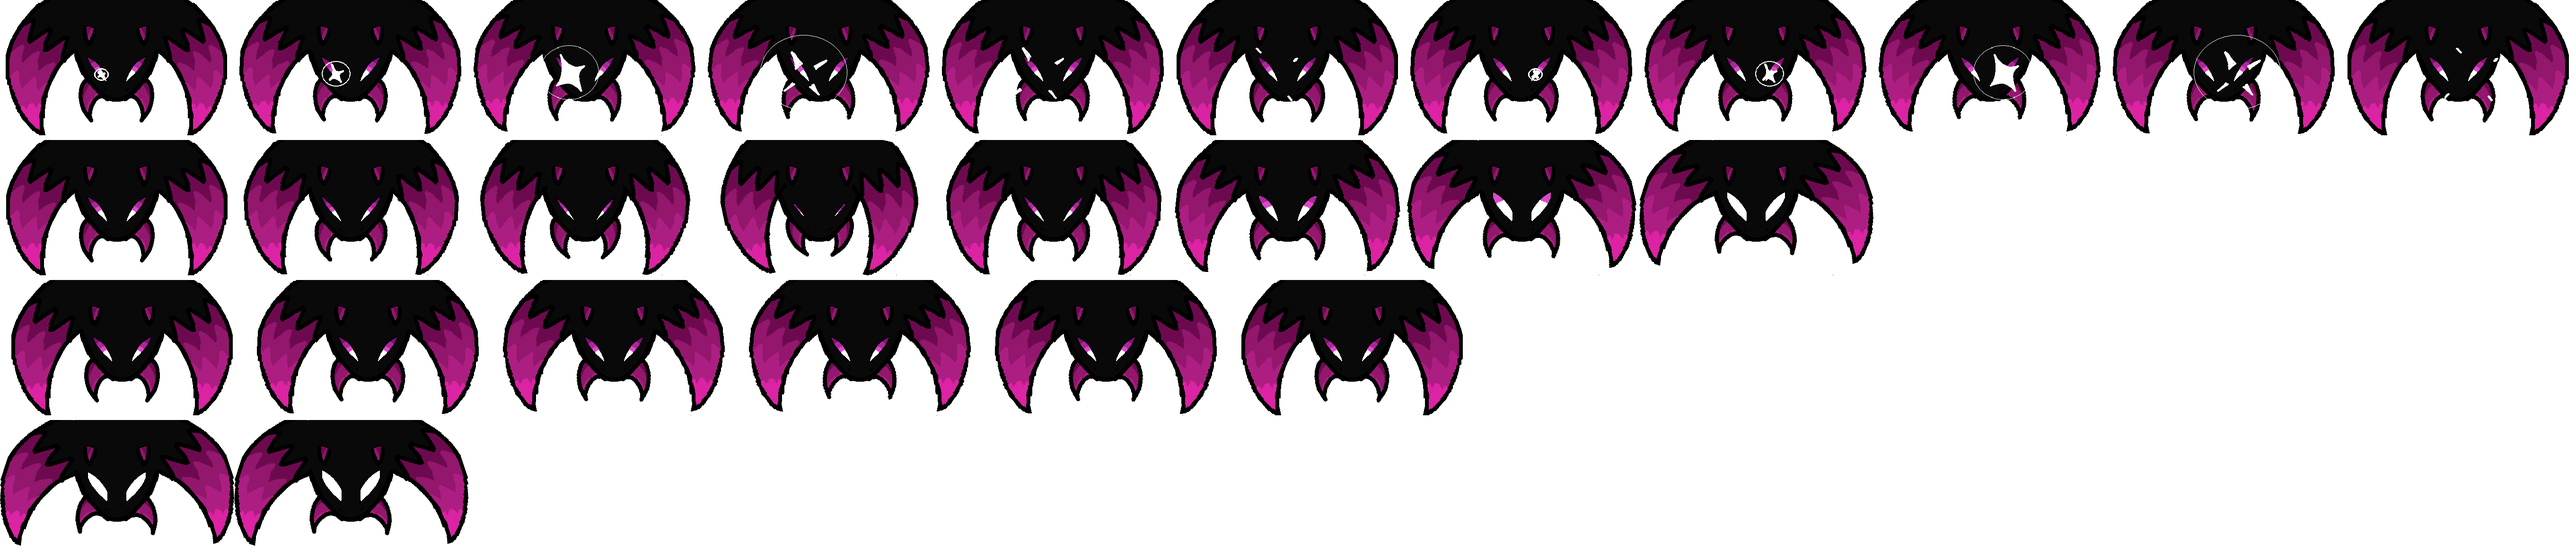
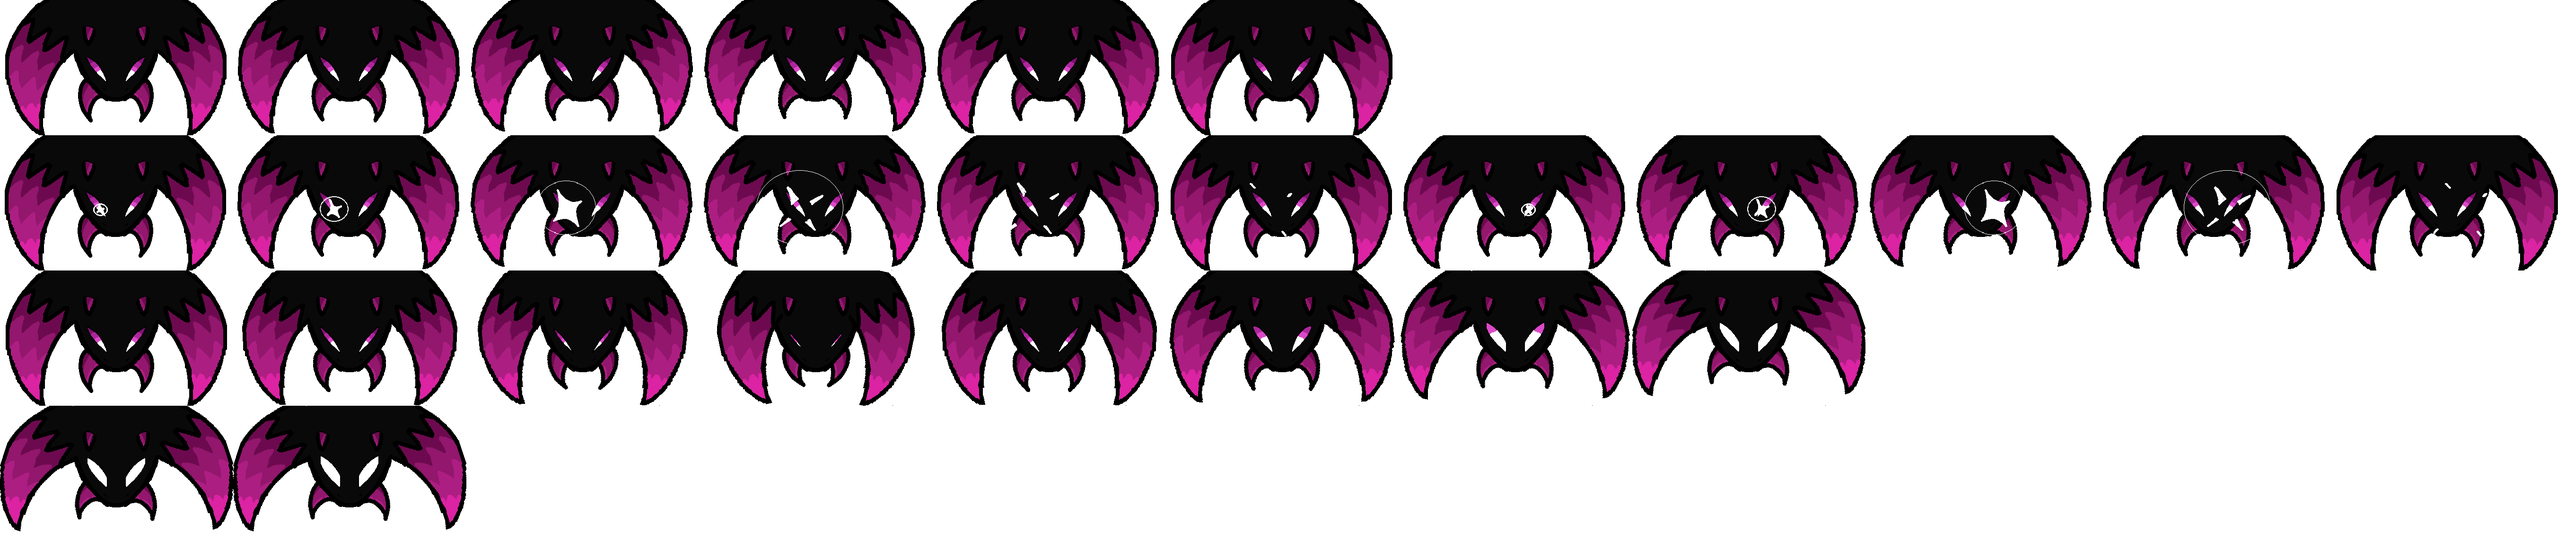
Empezé los atauqes del boss e hize que funcione su animación de idle

Changed region(s): [[0.0, 0.0, 0.9972, 0.7343], [0.0, 0.826, 0.187, 0.979]]

diff --git a/js/main.js b/js/main.js
@@ -2,7 +2,7 @@ let tiempoBala = 0;
 let balas;
 let botonDisparo;
 let enemigosDestruidos = 0;
-let vidasrestantes = 3;
+let vidasrestantes = 30000000000;
 let puntaje = document.getElementById("puntaje");
 let vidas = document.getElementById("vidas");
 let niveles = document.getElementById("niveles");
@@ -301,9 +301,36 @@ class BaseLevel extends Phaser.Scene {
     );
 
     this.load.spritesheet("bossCabeza", "../imgs/bossCabeza.png", {
-      frameWidth: 492,
-      frameHeight: 295,
+      frameWidth: 493,
+      frameHeight: 286,
     });
+
+    this.load.spritesheet(
+      "Estrella-boss",
+      "../imgs/estrellaAtaqueBoss.png",
+      {
+        frameWidth: 95,
+        frameHeight: 94,
+      }
+    );
+
+    this.load.spritesheet(
+      "Esfera-boss",
+      "../imgs/esferaAtaqueBoss.png",
+      {
+        frameWidth: 174,
+        frameHeight: 174,
+      }
+    );
+
+    this.load.spritesheet(
+      "Laser-boss",
+      "../imgs/rayoLaserAtaqueBoss.png",
+      {
+        frameWidth: 186,
+        frameHeight: 600,
+      }
+    );
 
     this.load.image("fondo", "../imgs/Fondo.png");
 
@@ -567,7 +594,7 @@ class BaseLevel extends Phaser.Scene {
         bala.setActive(true);
         bala.setVisible(true);
         bala.body.velocity.y = -400;
-        tiempoBala = time + 400;
+        tiempoBala = time + 4;
         playEffect(audioDisparo);
       }
     }
@@ -661,7 +688,7 @@ class BaseLevel extends Phaser.Scene {
 class Level1 extends BaseLevel {
   constructor() {
     super("Level1");
-    this.nextLevel = "Level2";
+    this.nextLevel = "Level3";
   }
 
   spawnEnemies() {
@@ -747,9 +774,23 @@ class Level3 extends BaseLevel {
       this.physics.world.removeCollider(this.enemyCollider);
     }
 
-    this.enemyShootEvent = this.time.addEvent({
-      delay: 50000,
-      callback: this.enemyShoot,
+    this.time.addEvent({
+      delay: 1000,
+      callback: this.tryEstrella,
+      callbackScope: this,
+      loop: true,
+    });
+
+    this.time.addEvent({
+      delay: 1800,
+      callback: this.ataqueEsfera,
+      callbackScope: this,
+      loop: true,
+    });
+
+    this.time.addEvent({
+      delay: 2500,
+      callback: this.ataqueLaser,
       callbackScope: this,
       loop: true,
     });
@@ -760,36 +801,42 @@ class Level3 extends BaseLevel {
         sprite: "bossBrazoDerecho",
         start: 0,
         end: 6,
+        repeat: -1,
       },
       {
         key: "bossBrazoDerecho-Ataque-1-1",
         sprite: "bossBrazoDerecho",
         start: 6,
         end: 13,
+        repeat: -1,
       },
       {
         key: "bossBrazoDerecho-Ataque-1-Aviso",
         sprite: "bossBrazoDerecho",
         start: 14,
         end: 15,
+        repeat: -1,
       },
       {
         key: "bossBrazoDerecho-Ataque-2",
         sprite: "bossBrazoDerecho",
         start: 28,
         end: 30,
+        repeat: -1,
       },
       {
         key: "bossBrazoDerecho-Ataque-2-2",
         sprite: "bossBrazoDerecho",
         start: 31,
         end: 33,
+        repeat: -1,
       },
       {
         key: "bossBrazoDerecho-Ataque-2-Aviso",
         sprite: "bossBrazoDerecho",
         start: 42,
         end: 43,
+        repeat: -1,
       },
 
       {
@@ -797,47 +844,79 @@ class Level3 extends BaseLevel {
         sprite: "bossBrazoIzquierdo",
         start: 0,
         end: 6,
+        repeat: -1,
       },
       {
         key: "bossBrazoIzquierdo-Ataque-1-1",
         sprite: "bossBrazoIzquierdo",
         start: 6,
         end: 13,
+        repeat: -1,
       },
       {
         key: "bossBrazoIzquierdo-Ataque-1-Aviso",
         sprite: "bossBrazoIzquierdo",
         start: 14,
         end: 15,
+        repeat: -1,
       },
       {
         key: "bossBrazoIzquierdo-Ataque-2",
         sprite: "bossBrazoIzquierdo",
         start: 28,
         end: 30,
+        repeat: -1,
       },
       {
         key: "bossBrazoIzquierdo-Ataque-2-2",
         sprite: "bossBrazoIzquierdo",
         start: 31,
         end: 33,
+        repeat: -1,
       },
       {
         key: "bossBrazoIzquierdo-Ataque-2-Aviso",
         sprite: "bossBrazoIzquierdo",
         start: 42,
         end: 43,
+        repeat: -1,
       },
 
-      { key: "bossCabeza-Idle", sprite: "bossCabeza", start: 22, end: 27 },
+      { key: "bossCabeza-Idle",
+        sprite: "bossCabeza",
+        start: 0,
+        end: 5,
+        repeat: -1,
+      },
+
+      { key: "bossCabeza-Ataque1",
+        sprite: "bossCabeza",
+        start: 11,
+        end: 21,
+        repeat: 0
+      },
+
+      { key: "bossCabeza-Idle-Ataque2",
+        sprite: "bossCabeza",
+        start: 22,
+        end: 29,
+        repeat: 0,
+      },
+
+      { key: "bossCabeza-Idle-Ataque3",
+        sprite: "bossCabeza",
+        start: 33,
+        end: 34,
+        repeat: -1,
+      },
     ];
 
-    animacionesBoss.forEach(({ key, sprite, start, end }) => {
+    animacionesBoss.forEach(({ key, sprite, start, end, repeat }) => {
       this.anims.create({
         key,
         frames: this.anims.generateFrameNumbers(sprite, { start, end }),
         frameRate: 10,
-        repeat: -1,
+        repeat: repeat,
       });
     });
 
@@ -877,6 +956,22 @@ class Level3 extends BaseLevel {
     this.bossArms = [brazoDerecho, brazoIzquierdo];
 
     cabeza.play("bossCabeza-Idle");
+  }
+
+  tryEstrella() {
+    const chance = Math.random();
+    if (chance <= 0.3) {
+      this.ataqueEstrella();
+    }
+  }
+
+  ataqueEstrella() {
+  }
+
+  ataqueEsfera() {
+  }
+
+  ataqueLaser() {
   }
 
   hitBoss(bala, parte) {

diff --git a/html/index.html b/html/index.html
@@ -41,13 +41,11 @@
         <div class="div-botones">
           <img id="esBoton" class="esBoton" src="../imgs/Boton Audio.png">
           <div class="cfg-row">
-            <label for="effectsVolume">Volumen efectos</label>
             <input id="effectsVolume" type="range" min="0" max="1" step="0.01" />
             <span id="effectsValue">100%</span>
           </div>
           <img id="musicaBoton" class="musicaBoton" src="../imgs/Boton Musica.png">
           <div class="cfg-row">
-            <label for="musicVolume">Volumen música</label>
             <input id="musicVolume" type="range" min="0" max="1" step="0.01" />
             <span id="musicValue">100%</span>
           </div>
